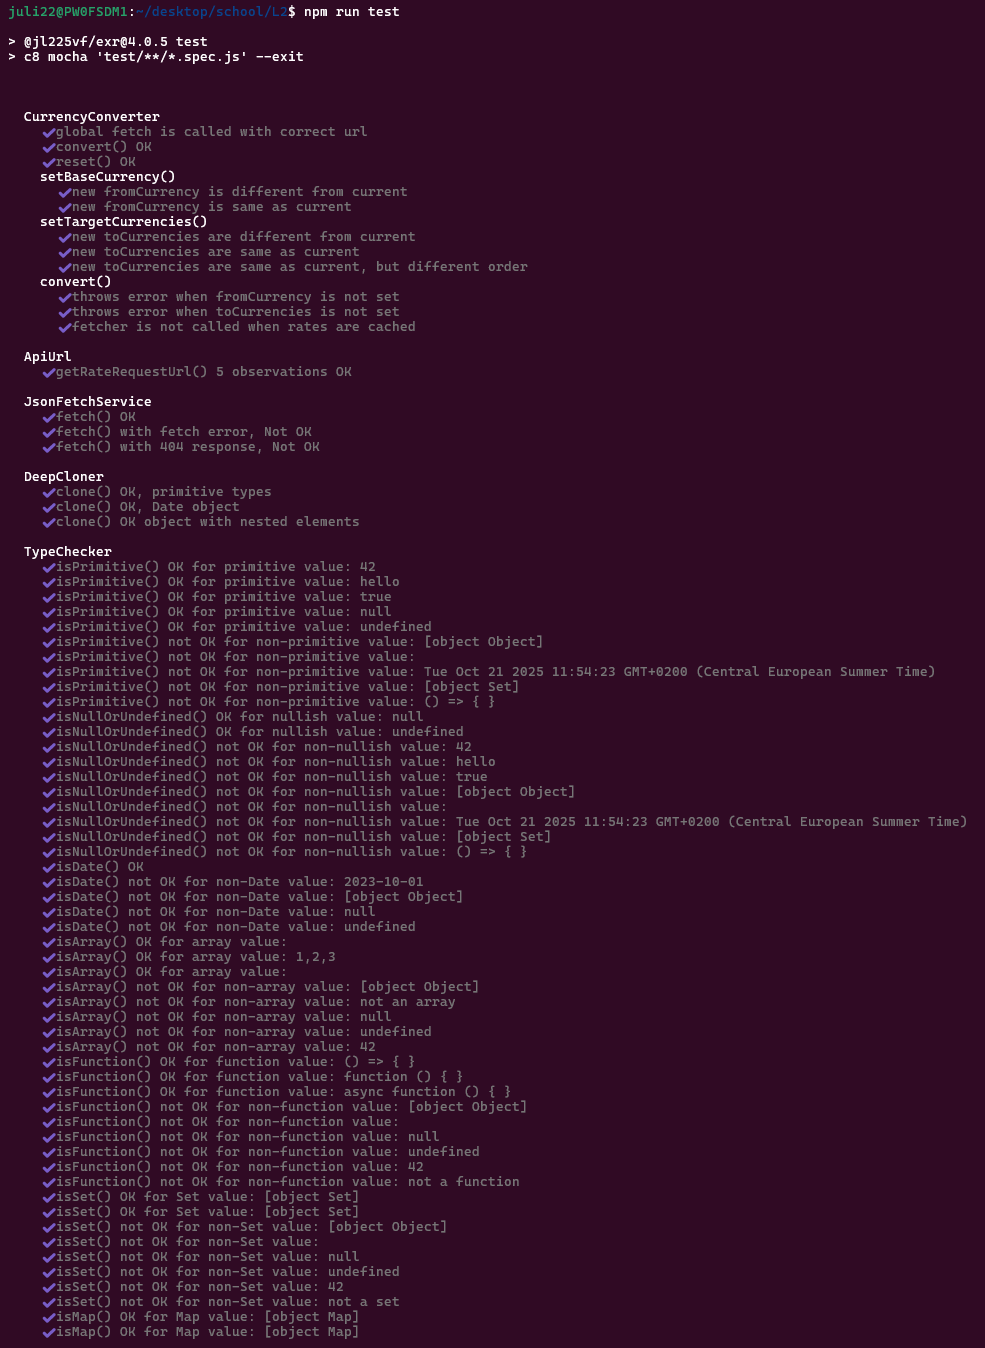
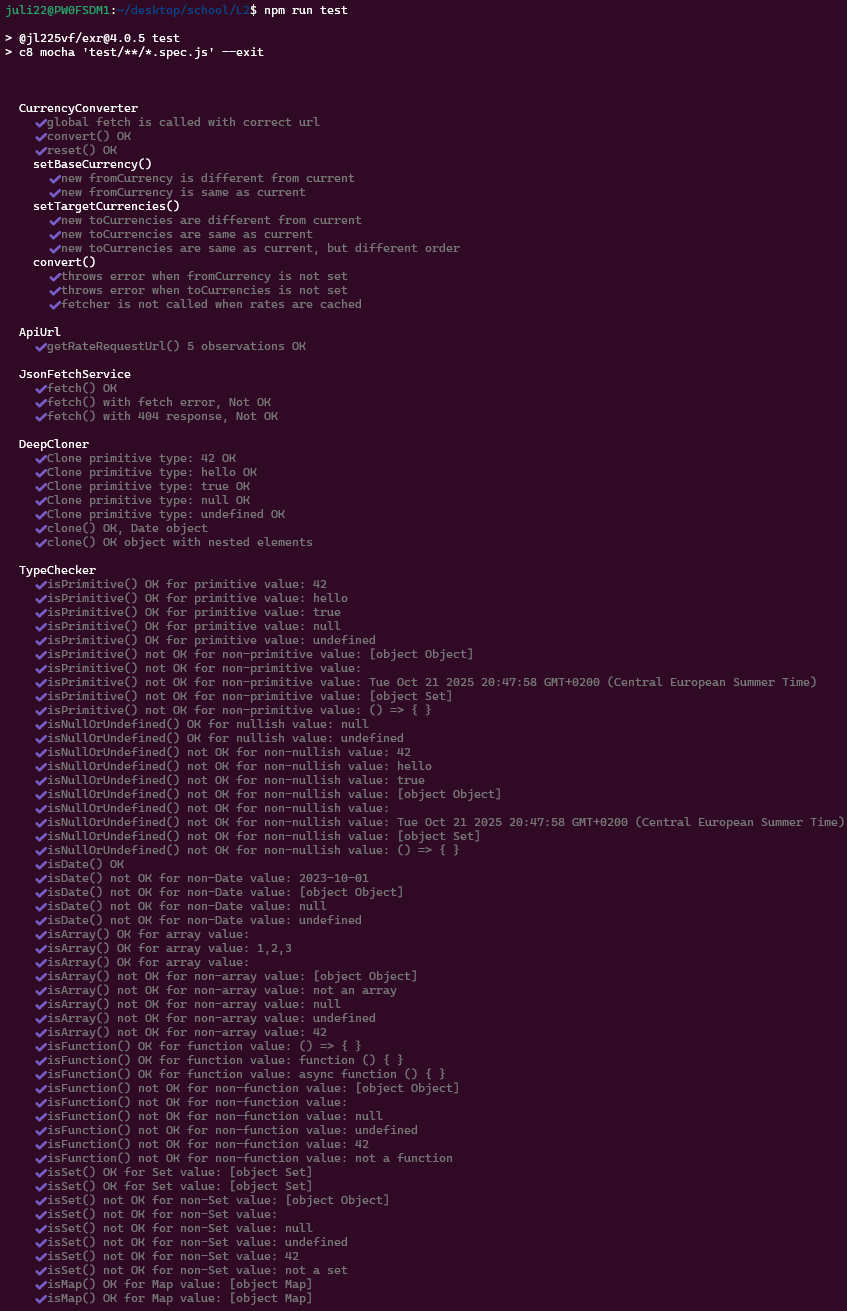
Refactor testcode

Changed region(s): [[0.0, 0.0, 0.9823, 1.0], [0.9209, 0.4882, 0.9516, 0.5187]]

diff --git a/test/lib/cloning/DeepCloner.spec.js b/test/lib/cloning/DeepCloner.spec.js
@@ -2,13 +2,14 @@ import { expect } from 'chai'
 import { DeepCloner } from '../../../src/lib/cloning/DeepCloner.js'
 
 describe('DeepCloner', () => {
-  it('clone() OK, primitive types', () => {
-    const sut = new DeepCloner()
-    expect(sut.clone(42)).to.equal(42)
-    expect(sut.clone('hello')).to.equal('hello')
-    expect(sut.clone(true)).to.equal(true)
-    expect(sut.clone(null)).to.equal(null)
-    expect(sut.clone(undefined)).to.equal(undefined)
+  const primitiveTypes = [42, 'hello', true, null, undefined]
+
+  primitiveTypes.forEach(value => {
+    it(`Clone primitive type: ${String(value)} OK`, () => {
+      const sut = new DeepCloner()
+
+      expect(sut.clone(value)).to.equal(value)
+    })
   })
 
   it('clone() OK, Date object', () => {

diff --git a/test/lib/functions.spec.js b/test/lib/functions.spec.js
@@ -16,18 +16,4 @@ describe('functions', () => {
       })
     })
   })
-
-  // describe('arraysAreEqual()', () => {
-  //   it('["PLN", "USD"], ["PLN", "USD"] should be true', () => {
-  //     expect(arraysAreEqual(['PLN', 'USD'], ['PLN', 'USD'])).to.be.true
-  //   })
-
-  //   it('["PLN", "EUR"], ["EUR", "PLN"] should be true', () => {
-  //     expect(arraysAreEqual(['PLN', 'EUR'], ['EUR', 'PLN'])).to.be.true
-  //   })
-
-  //   it('["PLN", "EUR"], ["EUR", "USD"] should be false', () => {
-  //     expect(arraysAreEqual(['PLN', 'EUR'], ['EUR', 'USD'])).to.be.false
-  //   })
-  // })
 })
